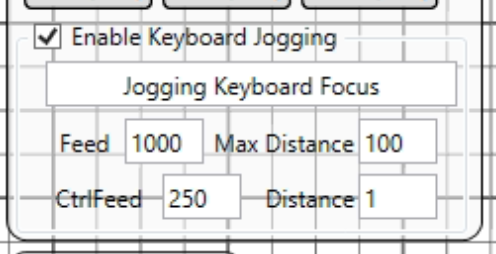
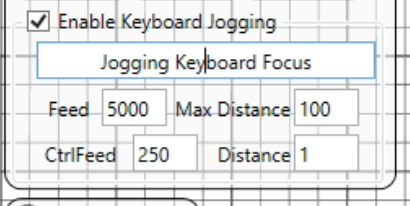
jogging image

diff --git a/README.md b/README.md
@@ -236,7 +236,7 @@ OpenCNCPilot is a little quirky, but it does everything you need. Please start b
   * `G10 L20 P1 Z0` to **Set Z=0**
     (This sets whatever the spindle is currently at as Z=0 without changing X, Y.)
 
-* If the machine seems to get stuck or OpenCNCPilot seems frozen, try the **Soft Reset** button before resetting the machine.
+* If the machine gets stuck or OpenCNCPilot seems frozen, try the **Soft Reset** button before resetting the machine. Also: you forgot the magnet on the door.
 
 ### OpenCNCPilot and Carbide Motion don't play nice
 
@@ -254,7 +254,7 @@ Using the **File** menu, load the `.ngc` file generated by `pcb2gcode`. You shou
 
 ### Set the zero point for X and Y (but Z comes later)
 
-In the **Manual** menu, :heavy_check_mark: the **Enable Keyboard Jogging**, and set Feed to 100, click inside the **Jogging Keyboard Focus** and use the left, right, up, down, page up, page down keys to maneuver the mill bit to the bottom left corner of the copper clad. You can increase the **Feed** to 1000 and increase **Max Distance** for larger motions. When you get close, reduce **Feed** to 100, then 10, or even 1.
+In the **Manual** menu, :heavy_check_mark: the **Enable Keyboard Jogging**, and set Feed to 100, click inside the **Jogging Keyboard Focus** and use the left, right, up, down, page up, page down keys to maneuver the mill bit to the bottom left corner of the copper clad. You can increase the **Feed** to 5000 and increase **Max Distance** for larger motions. When you get close, reduce **Feed** to 500, then 50, or even 10.
 
 ![jogging](img/jogging.png)
 
